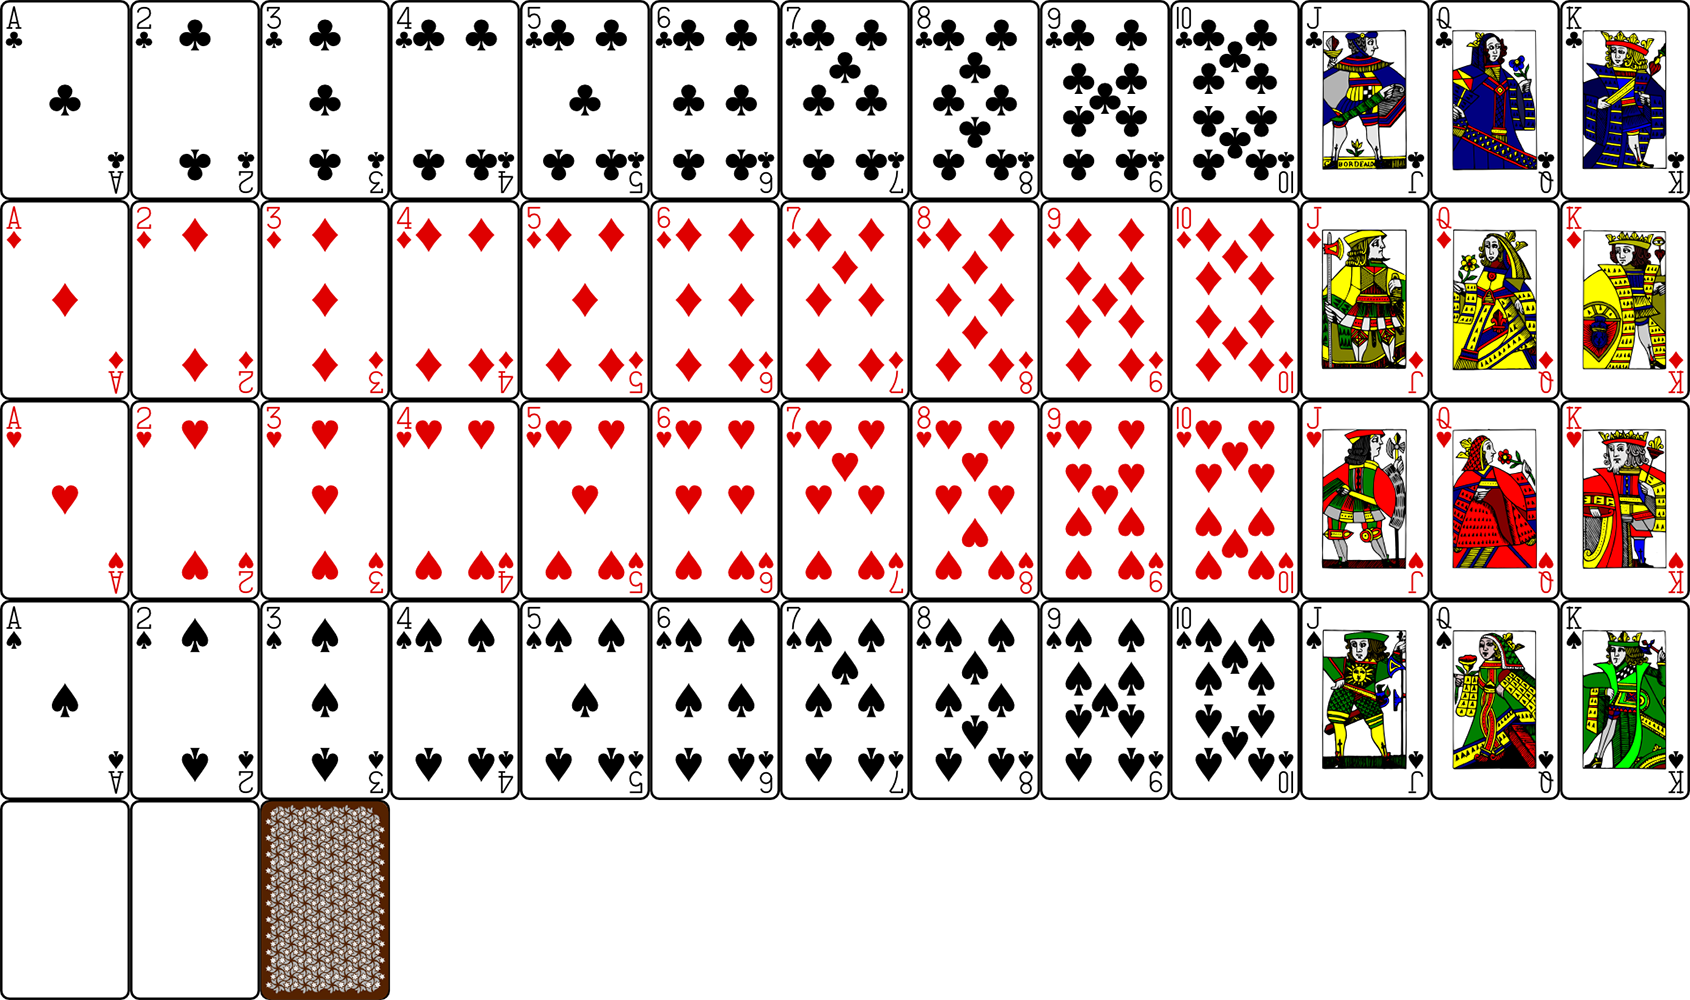
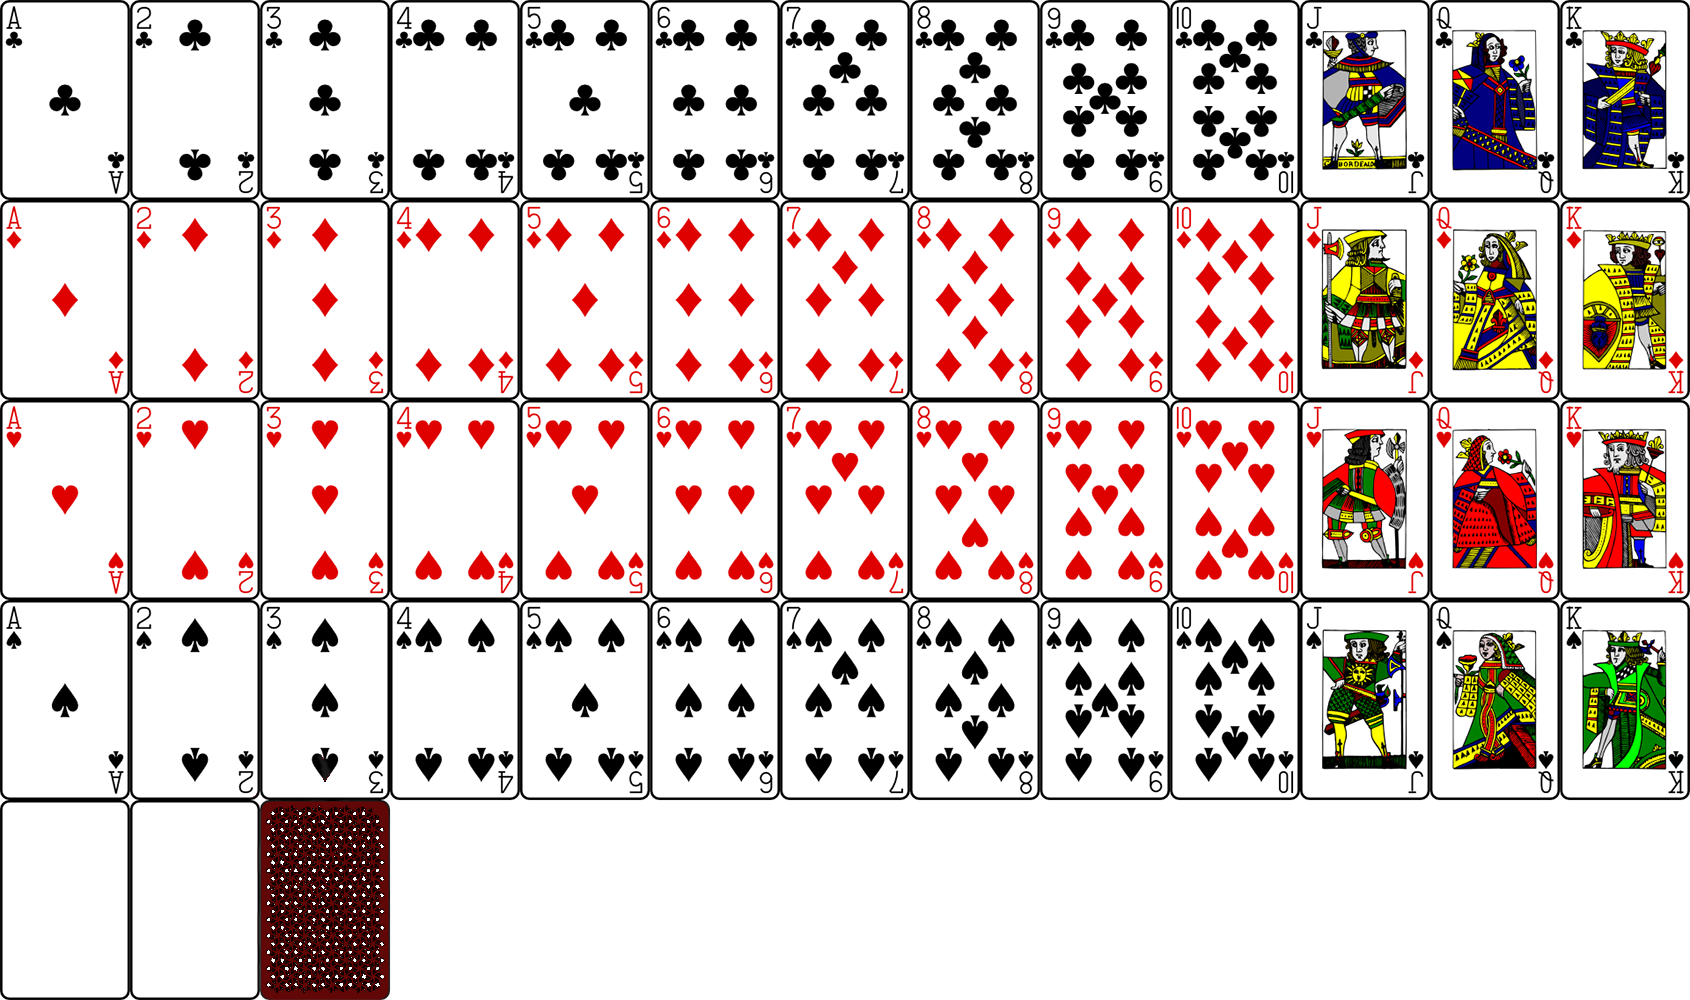
'changes in background, further implementations of View layer

Changed region(s): [[0.1538, 0.775, 0.2462, 1.0]]

diff --git a/src/main/kotlin/gui/GameScene.kt b/src/main/kotlin/gui/GameScene.kt
@@ -18,19 +18,22 @@ import tools.aqua.bgw.visual.ColorVisual
 import tools.aqua.bgw.visual.ImageVisual
 import java.awt.Color
 
-class GameScene(private val rootService: RootService) : BoardGameScene(1920, 1080, background = ImageVisual("background.jpg")), Refreshable {
+class GameScene(private val rootService: RootService) : BoardGameScene(1920, 1080, background = ImageVisual("game_background4.png")), Refreshable {
+
     val cardImageLoader: CardImageLoader = CardImageLoader()
     val cards: BidirectionalMap<Card, CardView> = BidirectionalMap()
+
     val drawPile: CardView = CardView(
-        height = 250,
-        width = 162.0,
+        height = 231,
+        width = 150,
         posX = 370,
         posY = 425,
-        front = cardImageLoader.backImage
+        front = cardImageLoader.backImage,
     )
+
     private val drawPileCount = Label(
-        height = 250,
-        width = 162.0,
+        height = 231,
+        width = 150,
         posX = 370,
         posY = 425,
         text = "0",//inital value
@@ -42,70 +45,76 @@ class GameScene(private val rootService: RootService) : BoardGameScene(1920, 108
         }
     }
 
-
     val discardPile: CardStack<CardView> = CardStack(
-        height = 250,
-        width = 162.0,
+        height = 251,
+        width = 170,
         posX = 1230,
         posY = 425,
-        visual = ColorVisual(255, 255, 255, 50)
+        visual = ColorVisual(255, 255, 255, 50),
+        alignment = Alignment.CENTER,
     )
-    val middleCards: LinearLayout<CardView> = LinearLayout(
-        height = 220,
+
+    val middleCards = LinearLayout<CardView>(
+        height = 251,
         width = 420,
         posX = 750,
         posY = 360,
         spacing = 30,
         visual = ColorVisual(255, 255, 255, 50)
-    )
+    ).apply {
+        dropAcceptor = { dragEvent ->
+            val draggedComponent = dragEvent.draggedComponent
 
-    var currentPlayerHand = LinearLayout<CardView>(
-        height = 220,
+            //check the dragged components is CardView and its in the currentPlayers' hand
+            draggedComponent is CardView && currentPlayerHand.contains(draggedComponent)
+
+            //we get the card : Card with backwards mapping CardView -> Card
+            val card = cards.backward(draggedComponent as CardView)
+            rootService.playerActionService.isCardValid(card)
+        }
+        onDragDropped = { dragEvent ->
+            val cardView = dragEvent.draggedComponent as CardView
+            val card = cards.backward(cardView)
+
+            // Play the card
+            rootService.playerActionService.playCard(card)
+
+        }
+    }
+
+    private var currentPlayerHand = LinearLayout<CardView>(
+        height = 251,
         width = 800,
         posX = 560,
         posY = 750,
         spacing = -30,
-        //visual = ColorVisual(255, 255, 255, 50),
-        //alignment = Alignment.CENTER
+        visual = ColorVisual(255, 255, 255, 50),
+        alignment = Alignment.CENTER
     )
 
+    var otherPlayerHand = LinearLayout<CardView>(
+        height = 251,
+        width = 800,
+        posX = 560,
+        posY = 50,
+        spacing = -30,
+        alignment = Alignment.CENTER,
+        visual = ColorVisual(255, 255, 255, 50)
+    ).apply {
+        rotation = 180.0
+    }
+
     var currentPlayerScoringPile = LinearLayout<CardView>(
-        height = 250,
-        width = 162.0,
+        height = 251,
+        width = 170,
         posX = 1420,
         posY = 750,
         visual = ColorVisual(255, 255, 255, 50)
 
     )
-    val nextTurn = Button(
-        height = 200,
-        width = 200,
-        posX = 50,
-        posY = 540,
-        text = "Next turn",
-        alignment = Alignment.CENTER,
-
-    ).apply {
-        onMouseClicked = {
-            rootService.gameService.endTurn()
-        }
-
-    }
-    var otherPlayerHand = LinearLayout<CardView>(
-        height = 220,
-        width = 800,
-        posX = 560,
-        posY = 140,
-        spacing = -30,
-        //alignment = Alignment.CENTER,
-        //visual = ColorVisual(255, 255, 255, 50)
-    ).apply {
-        rotation = 180.0
-    }
-
     var otherPlayerScoringPile: LinearLayout<CardView> = LinearLayout<CardView>(
-        height = 250,
-        width = 162.0,
+        height = 251,
+        width = 170,
         posX = 370,
         posY = 50,
         visual = ColorVisual(255, 255, 255, 50)
@@ -113,31 +122,69 @@ class GameScene(private val rootService: RootService) : BoardGameScene(1920, 108
     ).apply {
         rotation = 180.0
     }
+    var currentPlayerScore = Label(
+        height = 50,
+        width = 170,
+        posX = 1420,
+        posY = 1002,
+        text = "Score: 0",
+        alignment = Alignment.CENTER,
+        visual = ColorVisual(Color(0x0C2027)),
+        font = Font(30, Color(0xFFFFFFF), "Staatliches")
+    )
+    var otherPlayerScore = Label(
+        height = 50,
+        width = 170,
+        posX = 370,
+        posY = 0,
+        text = "Score: 0",
+        alignment = Alignment.CENTER,
+        visual = ColorVisual(Color(0x0C2027)),
+        font = Font(30, Color(0xFFFFFFF), "Staatliches")
+    )
+
 
     //player name labels
     private val currentPlayerName = Label(
         height = 50,
         width = 200,
-        posX = 750,
-        posY = 650,
+        posX = 560,
+        posY = 1002,
         text = "Spieler",
         alignment = Alignment.CENTER,
         visual = ColorVisual(Color(0x0C2027)),
-        font = Font(30, Color(0xFFFFFFF), "JetBrains Mono ExtraBold")
+        font = Font(30, Color(0xFFFFFFF), "Staatliches")
+
     )
+
     private val otherPlayerName = Label(
         height = 50,
         width = 200,
-        posX = 750,
-        posY = 50,
+        posX = 560 + 800 - 200,
+        posY = 0,
         text = "Spieler",
         alignment = Alignment.CENTER,
         visual = ColorVisual(Color(0x0C2027)),
-        font = Font(30, Color(0xFFFFFFF), "A")
-
+        font = Font(30, Color(0xFFFFFFF), "Staatliches")
 
     )
+    val nextTurn = Button(
+        height = 251,
+        width = 150,
+        posX = 370,
+        posY = 750,
+        text = "Next" +
+                "turn",
+        alignment = Alignment.CENTER,
+        visual = ColorVisual(Color(0x0C2027)),
+        font = Font(10, Color(0xFFFFFFF), "Staatliches")
 
+        ).apply {
+        onMouseClicked = {
+            rootService.playerActionService.nextTurn()
+        }
+
+    }
 
     init {
         addComponents(
@@ -148,11 +195,15 @@ class GameScene(private val rootService: RootService) : BoardGameScene(1920, 108
             currentPlayerHand,
             currentPlayerScoringPile,
             currentPlayerName,
+            currentPlayerScore,
             otherPlayerHand,
             otherPlayerScoringPile,
             otherPlayerName,
+            otherPlayerScore,
             nextTurn
         )
+
+
     }
 
     override fun refreshAfterStartNewGame() {
@@ -164,8 +215,8 @@ class GameScene(private val rootService: RootService) : BoardGameScene(1920, 108
         CardValue.values().forEach { value ->
             CardSuit.values().forEach { suit ->
                 cards[Card(suit, value)] = CardView(
-                    width = 130,
-                    height = 200,
+                    height = 231,
+                    width = 150,
                     front = cardImageLoader.frontImageFor(suit, value),
                     back = cardImageLoader.backImage
                 )
@@ -183,9 +234,13 @@ class GameScene(private val rootService: RootService) : BoardGameScene(1920, 108
 
             //change the current players label
             currentPlayerName.text = game.players[game.currentPlayerIndex].name
+            currentPlayerScore.text = "Score: " + game.players[game.currentPlayerIndex].score.toString()
 
             //get the index of other player with modulo
             val otherPlayer = game.players[(game.currentPlayerIndex +1) % 2]
+
+            otherPlayerName.text = otherPlayer.name
+            otherPlayerScore.text = "Score: " + otherPlayer.score.toString()
             otherPlayerHand.clear()
 
             currentPlayerHand.clear()
@@ -208,40 +263,67 @@ class GameScene(private val rootService: RootService) : BoardGameScene(1920, 108
 
         }
 
+    override fun refreshAfterPlayCard(playedCard: Card) {
+        val game = rootService.currentGame ?: return
+
+        val cardView = (cards[playedCard] as CardView).apply {
+            isDraggable = false
+            onMouseEntered = null
+            onMouseExited = null
+        }
+
+        currentPlayerHand.remove(cardView)
+        middleCards.add(cardView)
+    }
+
+    override fun refreshAfterTakeTrio() {
+        val game = rootService.currentGame ?: return
+        game.middleCards.forEach { card ->
+            currentPlayerScoringPile.add(
+                (cards[card] as CardView).apply {
+                    this.showFront()
+                }
+            )
+
+        }
+        middleCards.clear()
+        currentPlayerScore.text = "Score: " + game.players[game.currentPlayerIndex].score.toString()
+    }
     override fun refreshAfterDrawCard(drawnCard: Card) {
+        val game = rootService.currentGame ?: return
             currentPlayerHand.add(
                 (cards[drawnCard] as CardView).apply {
                     applyHoverEffect(this)
                 }
             )
+        drawPileCount.text = game.drawPile.size.toString()
+
     }
 
-
-        private fun applyHoverEffect(cardView: CardView) {
-            cardView.onMouseEntered = {
+    private fun applyHoverEffect(cardView: CardView) {
+        cardView.onMouseEntered = {
                 cardView.posY -= 25
             }
-            cardView.onMouseExited = {
+        cardView.onMouseExited = {
                 cardView.posY += 25
             }
-            cardView.width = 162.0
-            cardView.height = 250.0
-            cardView.rotation = 0.0
-            cardView.showFront()
-            cardView.isDraggable = true
+
+        cardView.width = 150.0
+        cardView.height = 231.0
+        cardView.rotation = 0.0
+        cardView.showFront()
+        cardView.isDraggable = true
         }
 
     private fun removeHoverEffect(cardView: CardView) {
         cardView.onMouseEntered = null
         cardView.onMouseExited = null
-        cardView.width = 162.0
-        cardView.height = 250.0
+        cardView.width = 150.0
+        cardView.height = 231.0
         cardView.rotation = 0.0
         cardView.showBack()
         cardView.isDraggable = false
     }
-
-
 
 }
 

diff --git a/src/main/kotlin/service/PlayerActionService.kt b/src/main/kotlin/service/PlayerActionService.kt
@@ -43,7 +43,9 @@ class PlayerActionService(private val rootService: RootService) : AbstractRefres
 
         // Check if the card is a normal play or the last drawn card
         if (card != currentPlayer.lastDrawnCard && currentPlayer.hasActionTaken) {
+            println(currentPlayer.hand)
             throw IllegalStateException("You can only play the last drawn card in the same turn.")
+
         }
         middleCards.add(card)
         currentPlayer.hand.remove(card)
@@ -53,6 +55,7 @@ class PlayerActionService(private val rootService: RootService) : AbstractRefres
         // Check trio formation if there are three cards in the middle after playing the card
         if (middleCards.size == 3) {
             takeTrioAndAddToScoringPile()
+            onAllRefreshables { refreshAfterTakeTrio() }
             // Reset swap ability for both players
             game.players.forEach { it.hasSwapped = false }
         }
@@ -292,7 +295,7 @@ class PlayerActionService(private val rootService: RootService) : AbstractRefres
      * @return true if the [card] can be legally played if it matches the middle cards either by suit or value
      * @throws IllegalStateException if no game is currently active
      */
-    private fun isCardValid(card: Card): Boolean {
+    fun isCardValid(card: Card): Boolean {
         val game = rootService.currentGame
         checkNotNull(game)
         val middleCards = game.middleCards

diff --git a/src/main/kotlin/service/CardImageLoader.kt b/src/main/kotlin/service/CardImageLoader.kt
@@ -10,7 +10,7 @@ import tools.aqua.bgw.visual.ImageVisual
  * as the order in which the suits are declared in [CardSuit], mappings via [row] and [column]
  * are required.
  */
-private const val CARDS_FILE = "card_deck.png"
+private const val CARDS_FILE = "card_deck2.png"
 
 private const val IMG_HEIGHT = 200
 private const val IMG_WIDTH = 130

diff --git a/src/main/kotlin/gui/Refreshable.kt b/src/main/kotlin/gui/Refreshable.kt
@@ -27,6 +27,7 @@ interface Refreshable {
      *
      * @param drawnCard the [Card] has been drawn
      */
+    fun refreshAfterTakeTrio(){}
     fun refreshAfterDrawCard(drawnCard: Card){}
 
     /** Refreshes the GUI after a swap action has taken place
